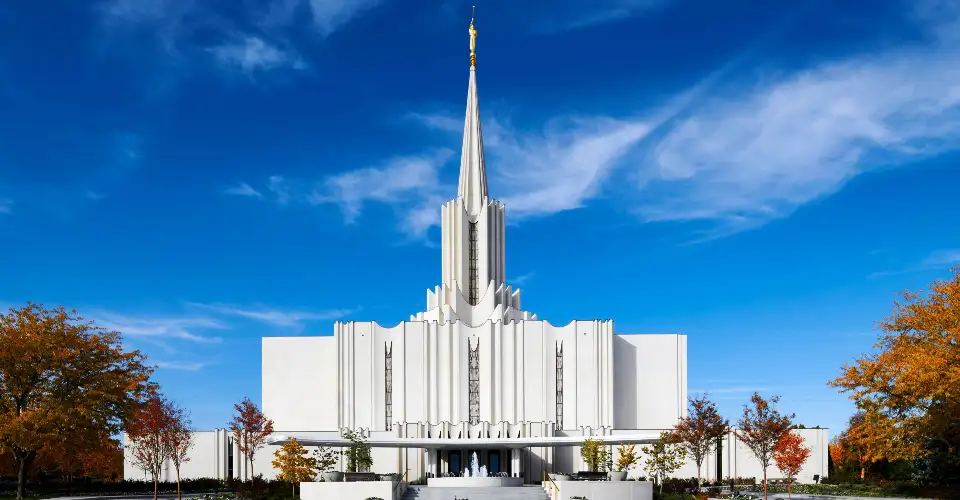
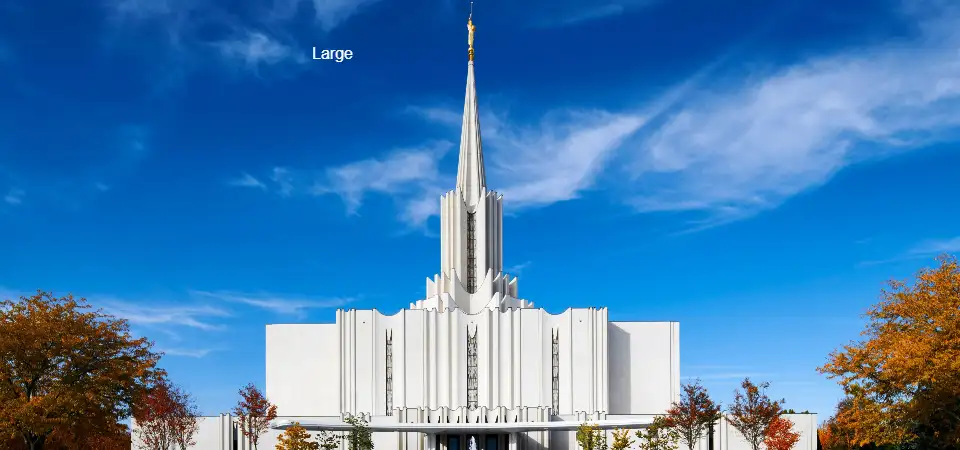
1/18

diff --git a/styles/base.css b/styles/base.css
@@ -5,7 +5,7 @@
 
    h2 {
        text-align: center;
-       margin: 0;
+       margin-top: 1rem;
 
    }
 
@@ -27,7 +27,7 @@
    }
 
    .sections {
-       max-width: 600px;
+       /* max-width: 600px; */
        margin: 1rem auto;
        display: grid;
        grid-template-areas:
@@ -154,41 +154,52 @@
    body {
        background-color: lightgreen;
        font-family: 'Roboto', sans-serif;
-
-       * {
-           box-sizing: border-box;
-       }
-
-       body {
-           display: flex;
-           flex-direction: column;
-           align-items: center;
-           font-family: Roboto, sans-serif;
-       }
-
-       main {
-           margin: 0;
-           border: 1px solid rgba(0, 0, 0, 0.2);
-           padding: 1rem;
-           width: 760px;
-           background-color: #eee;
-           color: #000;
-       }
-
-       main img {
-           float: right;
-           margin: 0 0 1rem 1rem;
-           border: 1px solid #333;
-           box-shadow: 0 0 15px #777;
-       }
-
-       #mode {
-           position: absolute;
-           top: 1rem;
-           right: 1rem;
-           font-size: 3rem;
-           cursor: pointer;
-       }
+   }
 
 
+   * {
+       box-sizing: border-box;
+   }
+
+   /* body {
+       display: flex;
+       flex-direction: column;
+       align-items: center;
+       font-family: Roboto, sans-serif;
+   } */
+
+   /* main {
+       margin: 0;
+       border: 1px solid rgba(0, 0, 0, 0.2);
+       padding: 1rem;
+       width: 1400px;
+       background-color: #eee;
+       color: #000;
+   } */
+
+   main img {
+       float: right;
+       margin: 0 0 1rem 1rem;
+       border: 1px solid #333;
+       box-shadow: 0 0 15px #777;
+   }
+
+   picture img {
+       width: 100%;
+       height: auto
+   }
+
+   main {
+       max-width: 1200px;
+       margin: auto;
+       width: 100%;
+       height: auto;
+   }
+
+   #mode {
+       position: absolute;
+       top: 1rem;
+       right: 1rem;
+       font-size: 3rem;
+       cursor: pointer;
    }

diff --git a/index.html b/index.html
@@ -63,8 +63,8 @@
     </header>
     <main>
         <picture>
-            <source src="images/jordan_river_temple_small.webp" media="max-width 400" )>
-            <img src="images/jordan_river_temple_large.webp" alt="">
+            <source srcset="images/jordan_river_temple_small.webp" media="(max-width: 400px)">
+            <img src="images/jordan_river_temple_large.webp" alt="Jordan River Temple">
         </picture>
         <h2>WDD 230 Course Activity Portal</h2>
         <div class="sections">

diff --git a/chamber/styles/base.css b/chamber/styles/base.css
@@ -64,6 +64,8 @@ nav a {
     width: 80%;
 }
 
+;
+
 .sections {
     display: flex;
     flex-direction: column;
